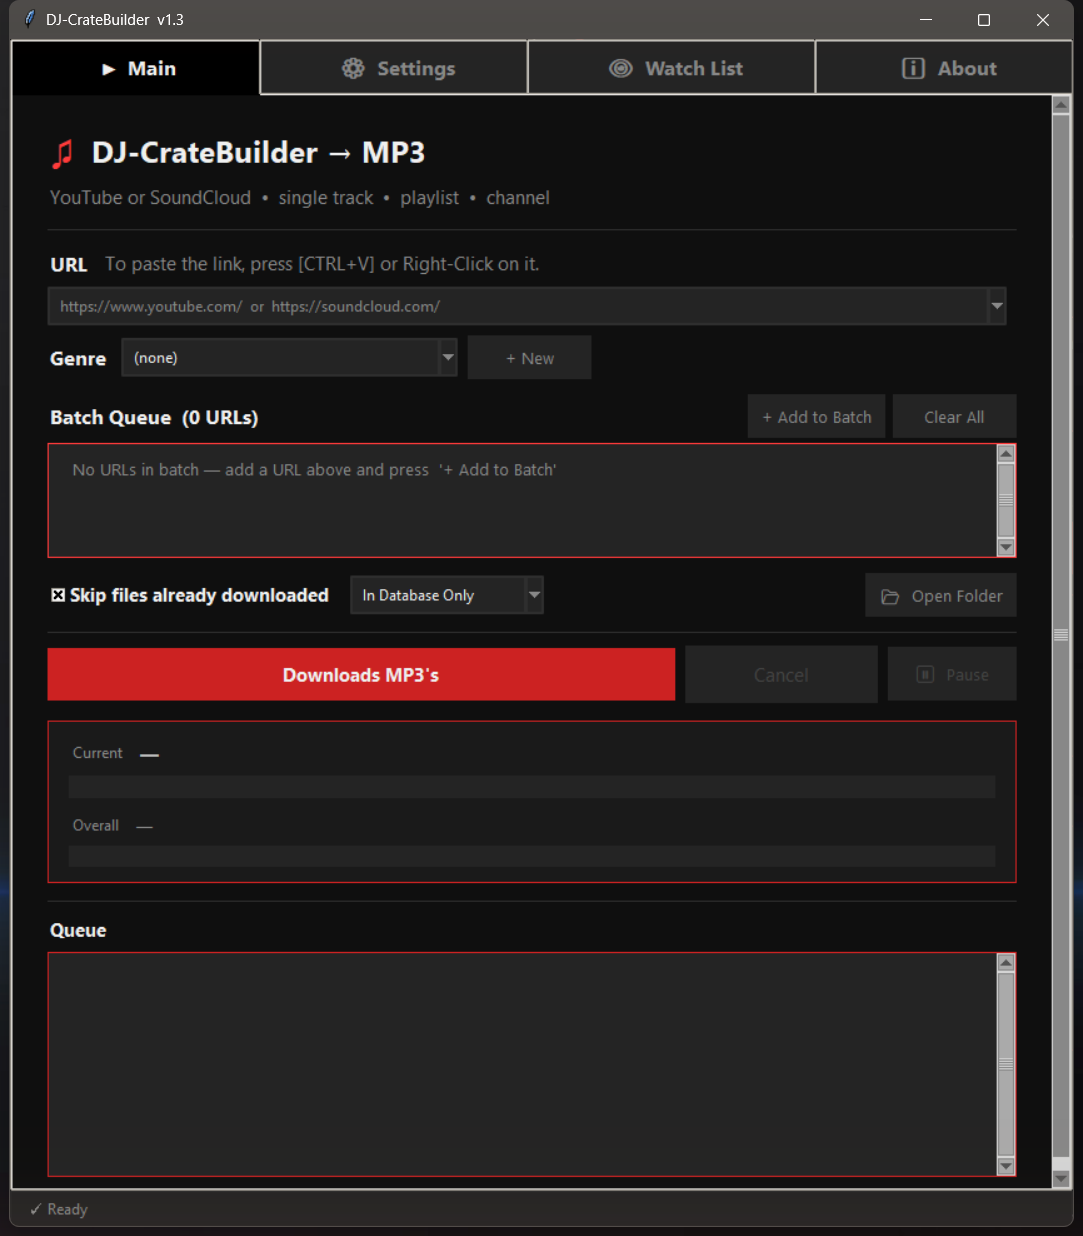
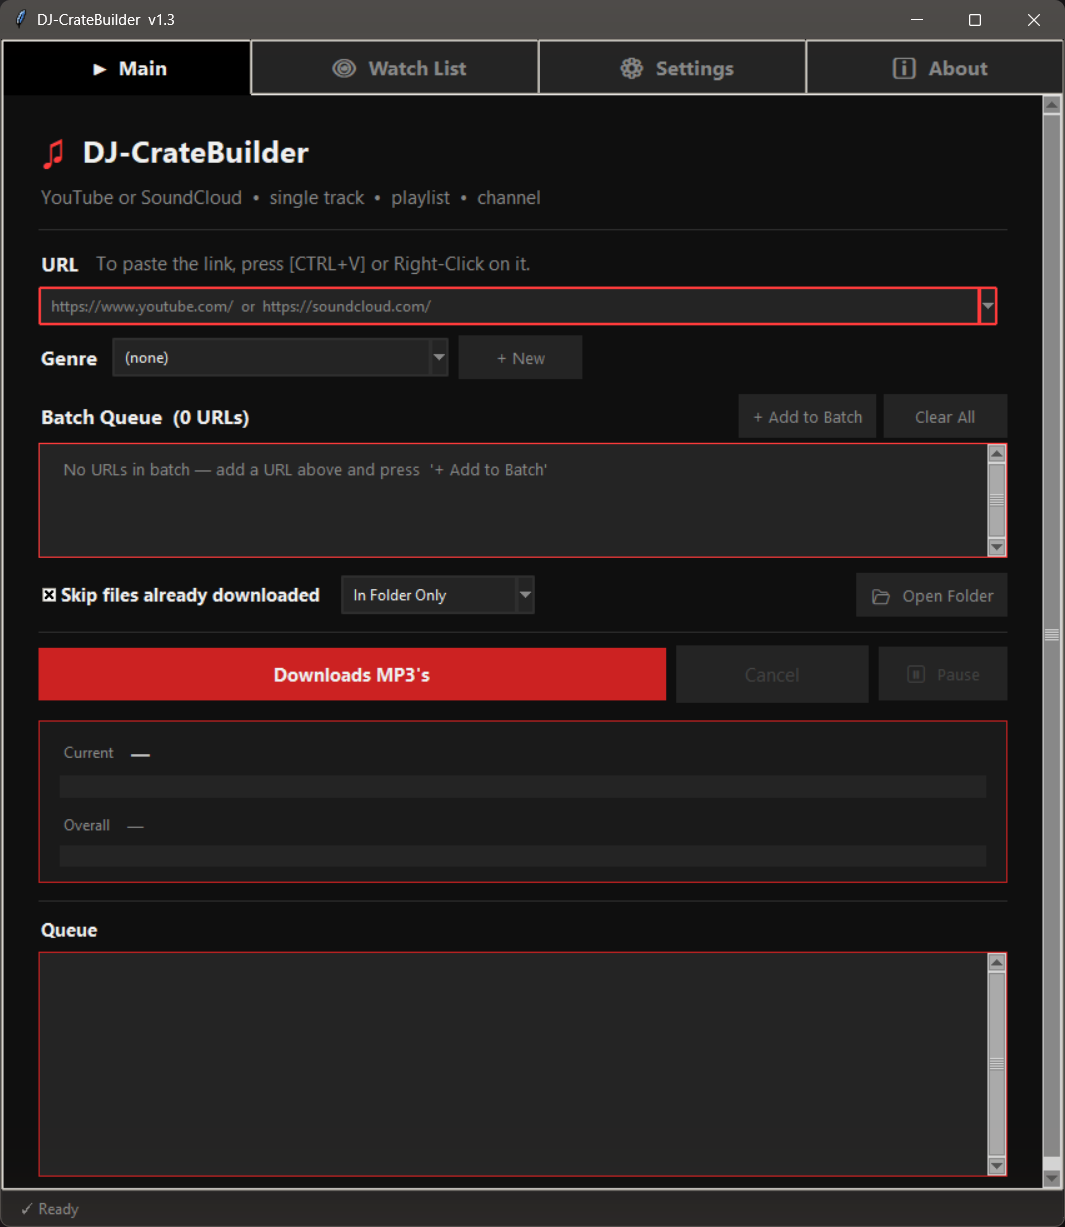
docs(v1.3): refresh README screenshots and fix installer scripts
- Capture fresh per-tab screenshots (Main → Watch List → Settings → About)
  and restructure README screenshots block to show each in order.
- install-linux.sh: install pystray + Pillow via requirements.txt and copy
  the cratebuilder/ package — without it v1.3 fails to import on launch.
- install-windows.bat: drop the stale worktree path + v1.2 fallback, point
  at the script's own directory, and verify cratebuilder/ is present.
- Packaging_Guide.md: ship cratebuilder/, requirements.txt, icon.ico in
  the Linux archive; expand the release checklist.

Changed region(s): [[0.0, 0.0, 1.0, 1.0]]

diff --git a/docs/Packaging_Guide.md b/docs/Packaging_Guide.md
@@ -77,14 +77,28 @@ This is the "just as easy as Windows" path you tested on the Linux Mint VM. No W
 
 ## What you ship
 
-A single archive (zip or tar.gz) containing three files:
+A single archive (zip or tar.gz) containing the launcher script, the
+`cratebuilder/` package it imports, the install/uninstall scripts, and the
+requirements file:
 
 ```
 DJ-CrateBuilder-v1.3-linux/
 ├── DJ-CrateBuilder_v1.3.py
+├── cratebuilder/            # required — the .py imports from this package
+│   ├── __init__.py
+│   ├── db.py
+│   ├── sidecar.py
+│   ├── startup.py
+│   ├── tray.py
+│   └── util.py
+├── requirements.txt         # yt-dlp, pystray, Pillow
+├── icon.ico                 # optional — used by the .desktop entry
 ├── install-linux.sh
 └── uninstall-linux.sh
 ```
+
+`install-linux.sh` refuses to run if `cratebuilder/` is missing — v1.3 will not
+launch without it.
 
 ## Build the release archive
 
@@ -93,9 +107,15 @@ From the repo root:
 ```bash
 mkdir -p release/DJ-CrateBuilder-v1.3-linux
 cp DJ-CrateBuilder_v1.3.py    release/DJ-CrateBuilder-v1.3-linux/
+cp -r cratebuilder            release/DJ-CrateBuilder-v1.3-linux/
+cp requirements.txt           release/DJ-CrateBuilder-v1.3-linux/
+cp icon.ico                   release/DJ-CrateBuilder-v1.3-linux/ 2>/dev/null || true
 cp install-linux.sh           release/DJ-CrateBuilder-v1.3-linux/
 cp uninstall-linux.sh         release/DJ-CrateBuilder-v1.3-linux/
 chmod +x release/DJ-CrateBuilder-v1.3-linux/*.sh
+
+# Strip any local __pycache__ so it doesn't ship
+find release/DJ-CrateBuilder-v1.3-linux -name __pycache__ -type d -exec rm -rf {} +
 
 cd release
 tar -czf DJ-CrateBuilder-v1.3-linux.tar.gz DJ-CrateBuilder-v1.3-linux/
@@ -115,8 +135,8 @@ zip -r DJ-CrateBuilder-v1.3-linux.zip DJ-CrateBuilder-v1.3-linux/
 The script:
 - Verifies Python 3.10+ and `tkinter`
 - Verifies `ffmpeg` is on PATH
-- Installs `yt-dlp` to user pip if missing
-- Copies the `.py` into `~/.local/share/DJ-CrateBuilder/`
+- Installs `yt-dlp`, `pystray`, and `Pillow` from `requirements.txt` (user pip)
+- Copies the `.py` and the `cratebuilder/` package into `~/.local/share/DJ-CrateBuilder/`
 - Creates the `dj-cratebuilder` command in `~/.local/bin/`
 - Creates a `.desktop` entry so it shows in the app menu
 
@@ -170,8 +190,11 @@ The **debug log** is new — it captures yt-dlp options, cookie config, and full
 # RELEASE CHECKLIST
 
 - [ ] `APP_VERSION = "1.3"` in `DJ-CrateBuilder_v1.3.py`
+- [ ] `pytest -q` passes (`requirements-dev.txt` installed)
 - [ ] Windows installer built and smoke-tested
-- [ ] Linux `.tar.gz` archive built
+- [ ] Linux `.tar.gz` archive built — contains `cratebuilder/` + `requirements.txt`
 - [ ] Tested `install-linux.sh` on Linux Mint VM
 - [ ] Tested `uninstall-linux.sh` (leaves MP3s intact)
 - [ ] Debug log viewer opens and displays data after a download
+- [ ] Watch List startup auto-scan refreshes new-track counts on launch
+- [ ] Tray icon appears when "Minimize to system tray" is enabled

diff --git a/README.md b/README.md
@@ -32,16 +32,28 @@ A desktop application for batch-downloading audio from YouTube and SoundCloud as
 
 ## Screenshots
 
+**Main** — paste URLs, queue a batch, download MP3s:
+
+<p align="left">
+  <img src="docs/screenshots/01-main.png" width="640">
+</p>
+
 **Watch List** — track channels and surface only new uploads:
 
 <p align="left">
-  <img src="docs/screenshots/03-watchlist.png" width="640">
+  <img src="docs/screenshots/02-watchlist.png" width="640">
 </p>
 
+**Settings** — automation, quality, throttle, and cookies:
+
 <p align="left">
-  <img src="docs/screenshots/01-main.png" width="320">
-  <img src="docs/screenshots/02-settings.png" width="320">
-  <img src="docs/screenshots/04-about.png" width="320">
+  <img src="docs/screenshots/03-settings.png" width="640">
+</p>
+
+**About** — version, links, and built-in FAQ:
+
+<p align="left">
+  <img src="docs/screenshots/04-about.png" width="640">
 </p>
 
 ---
@@ -179,9 +191,9 @@ package and the lazily-imported tray dependencies (pystray + Pillow). Copy
 
 ### Create Installer
 
-Use [Inno Setup 6](https://jrsoftware.org/isinfo.php) with the included `DJ-CrateBuilder_Installer.iss` file. Generate a unique GUID for the `AppId` field before compiling.
+Use [Inno Setup 6](https://jrsoftware.org/isinfo.php) with the included `docs/DJ-CrateBuilder_Installer_Windows.iss` file. Generate a unique GUID for the `AppId` field before compiling.
 
-See `Packaging_Guide.md` for detailed instructions.
+See [docs/Packaging_Guide.md](docs/Packaging_Guide.md) for detailed instructions.
 
 ---
 